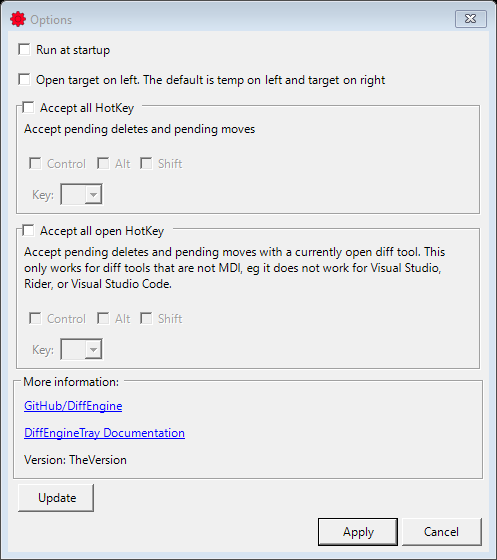
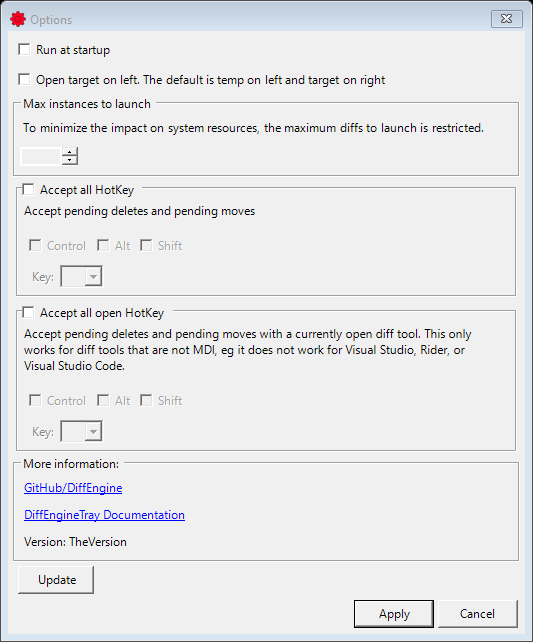
.

diff --git a/src/DiffEngineTray/Settings/SettingsHelper.cs b/src/DiffEngineTray/Settings/SettingsHelper.cs
@@ -29,14 +29,14 @@ static class SettingsHelper
             settings = new();
         }
 
-        settings.TargetOnLeft = TargetPositionHelper.TargetOnLeft;
+        settings.TargetOnLeft = TargetPosition.TargetOnLeft;
         settings.MaxInstancesToLaunch = MaxInstance.MaxInstancesToLaunch;
         return settings;
     }
 
     public static async Task Write(Settings settings)
     {
-        TargetPositionHelper.SetTargetOnLeft(settings.TargetOnLeft);
+        TargetPosition.SetTargetOnLeft(settings.TargetOnLeft);
         MaxInstance.SetForUser(settings.MaxInstancesToLaunch);
         File.Delete(FilePath);
         await using var stream = File.OpenWrite(FilePath);

diff --git a/src/DiffEngineTray/Settings/Settings.cs b/src/DiffEngineTray/Settings/Settings.cs
@@ -4,5 +4,5 @@ public class Settings
     public HotKey? AcceptOpenHotKey { get; set; }
     public bool RunAtStartup { get; set; }
     public bool TargetOnLeft { get; set; }
-    public int MaxInstancesToLaunch { get; set; }
+    public int MaxInstancesToLaunch { get; set; } = MaxInstance.MaxInstancesToLaunch;
 }

diff --git a/src/DiffEngine/TargetPosition.cs b/src/DiffEngine/TargetPosition.cs
@@ -1,10 +1,10 @@
 using System;
 
-static class TargetPositionHelper
+static class TargetPosition
 {
     public static bool TargetOnLeft { get; private set; }
 
-    static TargetPositionHelper()
+    static TargetPosition()
     {
         TargetOnLeft = ReadTargetOnLeft().GetValueOrDefault(false);
     }

diff --git a/src/DiffEngine/ResolvedTool.cs b/src/DiffEngine/ResolvedTool.cs
@@ -30,7 +30,7 @@ namespace DiffEngine
 
         string GetArguments(string tempFile, string targetFile)
         {
-            if (TargetPositionHelper.TargetOnLeft)
+            if (TargetPosition.TargetOnLeft)
             {
                 return TargetLeftArguments(tempFile, targetFile);
             }
